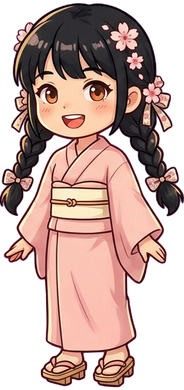
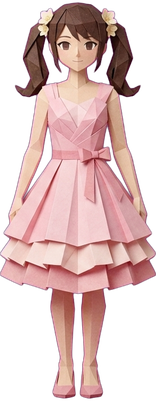
Folded-paper art style: new background, characters, krathongs, lanterns; retune layout; fix viewer sprite pick for some user ids

diff --git a/public/game.js b/public/game.js
@@ -19,13 +19,14 @@ const smooth = (a, b, x) => { const t = clamp((x - a) / (b - a), 0, 1); return t
 const hash = (s) => { let h = 2166136261; for (let i = 0; i < s.length; i++) { h ^= s.charCodeAt(i); h = Math.imul(h, 16777619); } return h >>> 0; };
 
 /* ---------------------------------------------------------------- scene layout (bg pixel coordinates) */
-const WATER_Y = 1000;                             // below this = river
-const PIER_SLOTS = [548, 590, 632];               // x where a character stands to float a krathong
+const WATER_Y = 935;                              // below this = river (tap to float your own krathong)
+const PIER_SLOTS = [625, 675, 725];               // x where a character stands on the pier deck to float a krathong
 const ENTER_X = -80;
 const groundY = (x, lane) => {                    // lane 0 = back .. 1 = front, returns bg-pixel y of the feet
-  const promenade = 838 + lane * 30;
-  const deck = 858 + clamp(x - 440, 0, 400) * 0.115 + lane * 14;
-  return lerp(promenade, deck, smooth(420, 470, x));
+  const back = 806 - x * 0.03, front = 872 - x * 0.045;          // cobblestone promenade (slopes up to the right)
+  const promenade = lerp(back, front, lane);
+  const deck = 836 + lane * 30;                                  // wooden pier deck
+  return lerp(promenade, deck, smooth(470, 590, x));
 };
 
 /* ---------------------------------------------------------------- three.js setup */
@@ -82,9 +83,10 @@ function buildBackground() {
       uniform sampler2D map; uniform float time; varying vec2 vUv;
       void main(){
         vec2 uv = vUv; float yT = 1.0 - uv.y;
-        float w = smoothstep(0.715, 0.775, yT);
-        float depth = clamp((yT - 0.715) / 0.285, 0.0, 1.0);
-        float amp = w * (0.0007 + 0.0042 * depth);
+        float top = 0.716 - 0.062 * clamp(uv.x / 0.65, 0.0, 1.0);
+        float w = smoothstep(top, top + 0.045, yT);
+        float depth = clamp((yT - top) / 0.3, 0.0, 1.0);
+        float amp = w * (0.0005 + 0.0034 * depth);
         float wave = sin(yT * 130.0 - time * 1.25 + sin(uv.x * 9.0 + time * 0.4) * 2.0);
         uv.x += wave * amp + sin(uv.x * 28.0 + time * 0.8 + yT * 40.0) * amp * 0.4;
         uv.y += cos(yT * 85.0 - time * 0.9) * amp * 0.35;
@@ -109,12 +111,13 @@ function addGlow(px, py, size, color, opts = {}) {
   return s;
 }
 function buildGlows() {
-  addGlow(516, 190, 520, 0xaad4ff, { opacity: 0.32, flicker: 0.04, speed: 0.4 });                // moon halo
-  addGlow(510, 1092, 230, 0xcfe6ff, { opacity: 0.22, flicker: 0.1, speed: 0.8 });                  // moon reflection
-  [[522, 782], [609, 826], [724, 813]].forEach(([x, y]) => { addGlow(x, y, 120, 0xffb347, { opacity: 0.85 }); addGlow(x, y + 190, 100, 0xff9a3a, { opacity: 0.25, flicker: 0.3 }); }); // pier lamps + reflection
-  [[338, 690], [376, 690], [416, 688], [312, 668]].forEach(([x, y]) => addGlow(x, y, 70, 0xffa43a, { opacity: 0.55, flicker: 0.1 }));  // ubosot windows
-  [[23, 553], [85, 590], [125, 600], [157, 575], [18, 665], [40, 690]].forEach(([x, y]) => addGlow(x, y, 78, 0xffa347, { opacity: 0.55 })); // hanging lanterns
-  [[210, 640], [260, 700]].forEach(([x, y]) => addGlow(x, y, 160, 0xffc766, { opacity: 0.18, flicker: 0.06 }));                       // stupa warmth
+  addGlow(520, 190, 540, 0xaad4ff, { opacity: 0.30, flicker: 0.04, speed: 0.4 });                  // moon halo
+  addGlow(500, 985, 260, 0xfff0c8, { opacity: 0.20, flicker: 0.1, speed: 0.8 });                   // moon reflection
+  [[634, 742], [741, 727]].forEach(([x, y]) => { addGlow(x, y, 130, 0xffb347, { opacity: 0.85 }); addGlow(x, 940, 110, 0xff9a3a, { opacity: 0.22, flicker: 0.3 }); }); // pier lamps + reflections
+  [[293, 660], [329, 668], [368, 672], [440, 668]].forEach(([x, y]) => addGlow(x, y, 80, 0xffa43a, { opacity: 0.5, flicker: 0.1 }));       // ubosot windows
+  [[38, 687], [77, 680], [110, 655], [190, 668], [232, 662], [62, 432], [92, 410], [115, 388], [229, 379], [259, 407], [289, 430], [562, 652], [590, 641]]
+    .forEach(([x, y]) => addGlow(x, y, 70, 0xffa347, { opacity: 0.5 }));                                                                       // hanging lanterns
+  [[170, 470], [190, 600]].forEach(([x, y]) => addGlow(x, y, 200, 0xffc766, { opacity: 0.14, flicker: 0.06 }));                                  // stupa warmth
 }
 
 /* ---------------------------------------------------------------- particles & fireflies */
@@ -256,7 +259,7 @@ function chime(freqs = [880], vol = 0.05) {
 const krathongs = [];
 function dropKrathong(x0, y0, x1, y1, opts = {}) {
   const key = opts.key || 'k' + (1 + ((Math.random() * 4) | 0)); const [w, h] = MAN[key];
-  const gold = !!opts.gold, size = (gold ? 130 : 80) * rand(0.92, 1.08);
+  const gold = !!opts.gold, size = (gold ? 112 : 66) * rand(0.92, 1.08);
   const body = new THREE.Mesh(quadB, mkMat(A[key])); body.renderOrder = 200; scene.add(body);
   const refl = new THREE.Mesh(quadB, mkMat(A[key], { opacity: 0.22, color: 0x7fb4ff })); refl.renderOrder = 120; scene.add(refl);
   const halo = new THREE.Sprite(new THREE.SpriteMaterial({ map: glowTex, color: gold ? 0xffd34a : 0xffa94a, transparent: true, blending: THREE.AdditiveBlending, depthTest: false, depthWrite: false, opacity: 0.8 })); halo.renderOrder = 3050; scene.add(halo);
@@ -276,9 +279,9 @@ function updateKrathongs(dt, t) {
         ripple(k.x, k.y);
       }
     } else { k.x -= k.drift * dt; k.y += k.sink * dt; xx = k.x; yy = k.y + Math.sin(t * 1.7 + k.ph) * 1.4; }
-    if (k.age > k.life || k.y > 1215) k.fading = true;
+    if (k.age > k.life || k.y > 1180) k.fading = true;
     if (k.fading) { k.fade = (k.fade ?? 1) - dt * 0.4; a = Math.max(k.fade, 0); if (a <= 0) { scene.remove(k.body, k.refl, k.halo); k.body.material.dispose(); k.refl.material.dispose(); k.halo.material.dispose(); krathongs.splice(i, 1); continue; } }
-    const sc = lerp(0.55, 1.35, clamp((yy - 1000) / 380, 0, 1)) * (k.phase === 'fall' ? 1.05 : 1);
+    const sc = lerp(0.6, 1.4, clamp((yy - 920) / 440, 0, 1)) * (k.phase === 'fall' ? 1.05 : 1);
     const H = k.size * sc, Wd = H * k.ar;
     const wp = W(xx, yy, 20);
     k.body.position.set(wp.x, wp.y, 20); k.body.scale.set(Wd, H, 1); k.body.rotation.z = Math.sin(t * 1.3 + k.ph) * 0.05;
@@ -306,7 +309,7 @@ const chars = [];
 const byUser = new Map();
 const slotOwner = PIER_SLOTS.map(() => null);
 const MAX_CHARS = 14;
-const REF_H = 415, CHAR_H = 205;
+const REF_H = 415, CHAR_H = 150;
 const labels = new Map();
 
 class Char {
@@ -315,7 +318,7 @@ class Char {
     const id = this.user ? this.user.id : String(Math.random());
     const hh = hash(id);
     this.gender = opts.gender || (hh & 1 ? 'f' : 'm');
-    this.variant = opts.variant || (1 + ((hh >> 1) % 4));
+    this.variant = opts.variant || (1 + ((hh >>> 1) % 4));
     this.key = this.gender + this.variant;
     const [w, h] = MAN[this.key]; this.H = CHAR_H * (h / REF_H); this.Wd = this.H * w / h;
     this.lane = this.laneGoal = rand(0.05, 0.95); this.x = ENTER_X; this.state = 'enter'; this.t = 0; this.phase = rand(0, 6.28); this.dir = 1;
@@ -383,7 +386,7 @@ class Char {
         this.dir = 1; const u = this.t;
         if (!this.released && u > 1.0) {
           this.released = true; const job = this.queue.shift() || {}; const hand = this.handPos();
-          const tx = this.x + rand(34, 70), ty = rand(1008, 1040);
+          const tx = this.x + rand(30, 70), ty = rand(950, 1010);
           dropKrathong(hand.x, hand.y, tx, ty, { gold: job.gold, value: job.value ?? floatValue(), fall: 0.95, key: this.carryKey });
           this.carryM.visible = this.carryHalo.visible = false; this.carry = false;
           if (job.gold) { spark(hand.x, hand.y, 24, 0xffe27a, 90); for (let i = 0; i < (job.lanterns ?? 4); i++) setTimeout(() => launchLantern(this.x + rand(-60, 60), rand(620, 760)), i * 140); }
@@ -402,14 +405,14 @@ class Char {
   }
   handPos() { return { x: this.x + 44, y: this.y() - this.H * 0.16 }; }
   apply(dt, t = 0) {
-    const y = this.y(), lane = clamp((y - 836) / 70, 0, 1);
+    const y = this.y(), lane = clamp((y - 800) / 90, 0, 1);
     const sc = 0.95 + 0.1 * clamp((this.lane), 0, 1) * (this.x < 440 ? 1 : 0.5);
     let bob = 0, rot = 0, sy = 1, sx = 1;
     const moving = this.state === 'walk';
     if (moving) { const s = Math.sin(this.phase * 1); bob = Math.abs(s) * 5 * sc; rot = s * 0.055; sy = 1 + Math.abs(s) * 0.025; }
     else { sy = 1 + Math.sin(this.phase) * 0.012; }
     if (this.hopT > 0) { this.hopT += dt; const u = this.hopT / 0.55; if (u >= 1) this.hopT = 0; else { bob += Math.sin(u * Math.PI) * 26; sy *= 1 + Math.sin(u * Math.PI) * 0.06; } }
-    let cx = 0, cy = this.carry ? this.H * 0.36 : 0, cs = 0.28;
+    let cx = 0, cy = this.carry ? this.H * 0.36 : 0, cs = 0.3;
     if (this.state === 'float') {
       const u = this.t;
       const bend = u < 0.7 ? smooth(0, 0.7, u) : u < 1.5 ? 1 : u < 2.0 ? 1 - smooth(1.5, 2.0, u) : 0;

diff --git a/README.md b/README.md
@@ -45,9 +45,10 @@ Progress is saved in localStorage, with offline earnings (max 8 h).
 - `tools/process_assets.py` cuts the Image Gen sprite sheets (magenta background) into transparent PNGs
 
 ## Art notes
-Background, characters, krathongs and lanterns are painted 2D (Ghibli-like + chibi). They live inside a real 3D scene:
-perspective camera drift gives parallax, the river is a shader, lamps/candles/moon are additive glows, characters are billboarded sprites with
-moonlight/lamp tinting. Characters use 4 male + 4 female painted sprites with procedural walk/hop/bend/pray animation (no frame-by-frame animation yet).
+Style: **3D folded-paper sculpture** (origami look, soft real paper shadows) for the background, characters, krathongs and sky lanterns (generated with Image Gen).
+They live inside a real 3D scene: a perspective camera drift gives parallax, the river is a shader, lamps/candles/moon are additive glows, characters are billboarded sprites with
+moonlight/lamp tinting. 4 male + 4 female sprites with procedural walk/hop/bend/pray animation (no frame-by-frame animation).
+To swap art: put the 5 source images in a folder and run `python tools/process_assets.py <source_dir> public/assets`, then adjust the layout constants at the top of `public/game.js` (`PIER_SLOTS`, `groundY`, `buildGlows`) to match the new painting.
 
 ## OBS Browser Source (overlay on your TikTok LIVE)
 The game page can be hosted anywhere (GitHub Pages / itch.io), but the TikTok connector only runs in Node, so TikTok events come from the small relay on **the PC that runs OBS**:
